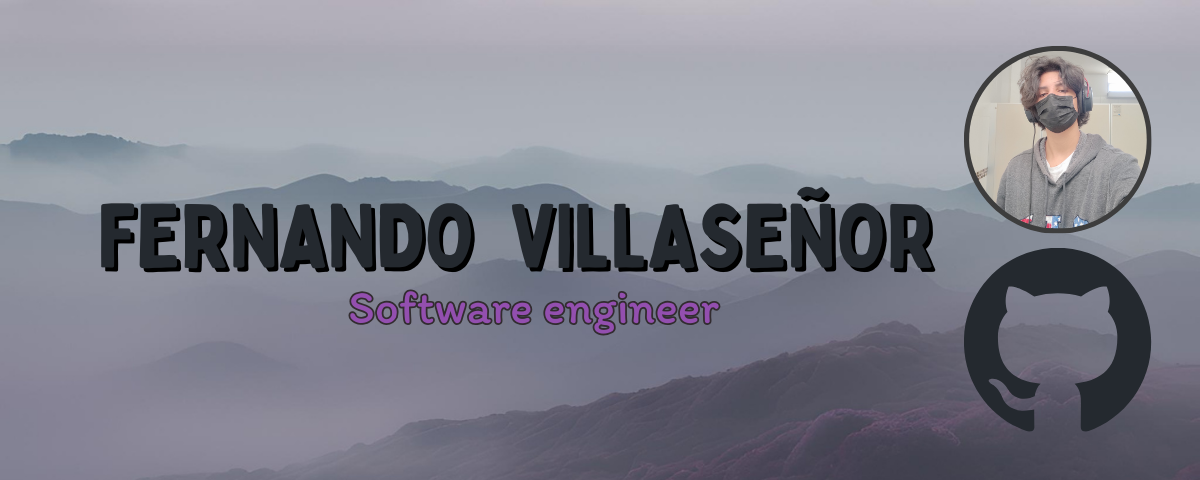
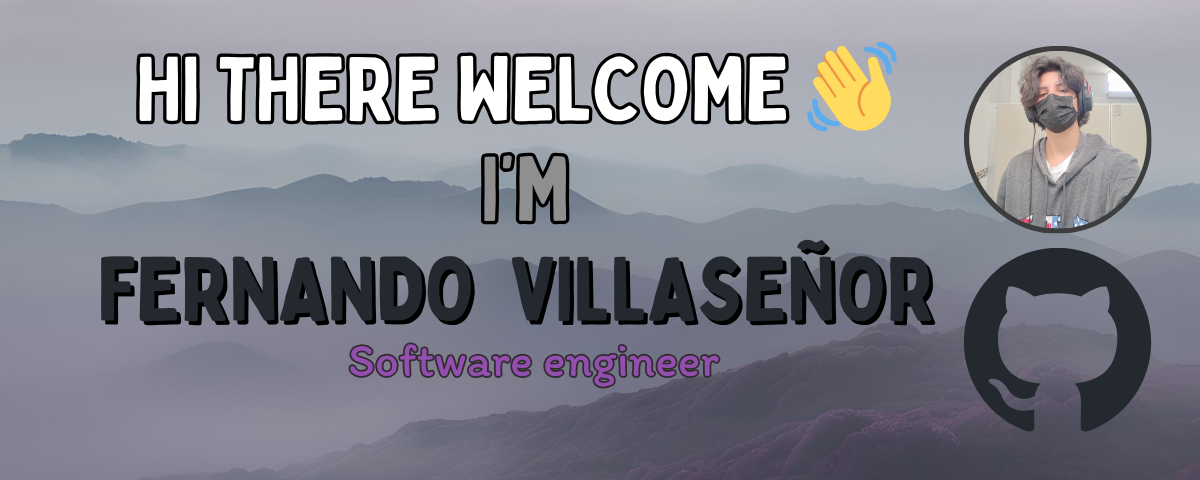
finalBanner_LT_connectWM

Changed region(s): [[0.0617, 0.3125, 0.8017, 0.8125], [0.0925, 0.0938, 0.7708, 0.2812]]

diff --git a/README.md b/README.md
@@ -1,4 +1,26 @@
-## Hi there 👋
+
+![Mi Banner de Github](GithubBanner.png)
+
+<div id="badges">
+<h3 align="left">Languages and Tools:</h3>
+<p align="left">
+<a href="https://developer.mozilla.org/en-US/docs/Web/JavaScript" target="_blank" rel="noreferrer"><img src="https://raw.githubusercontent.com/danielcranney/readme-generator/main/public/icons/skills/javascript-colored.svg" width="36" height="36" alt="JavaScript" /></a><a href="https://docs.microsoft.com/en-us/cpp/?view=msvc-170" target="_blank" rel="noreferrer"><img src="https://raw.githubusercontent.com/danielcranney/readme-generator/main/public/icons/skills/cplusplus-colored.svg" width="36" height="36" alt="C++" /></a><a href="https://code.visualstudio.com/" target="_blank" rel="noreferrer"><img src="https://raw.githubusercontent.com/danielcranney/readme-generator/main/public/icons/skills/visualstudiocode.svg" width="36" height="36" alt="VS Code" /></a><a href="https://developer.mozilla.org/en-US/docs/Glossary/HTML5" target="_blank" rel="noreferrer"><img src="https://raw.githubusercontent.com/danielcranney/readme-generator/main/public/icons/skills/html5-colored.svg" width="36" height="36" alt="HTML5" /></a><a href="https://www.w3.org/TR/CSS/#css" target="_blank" rel="noreferrer"><img src="https://raw.githubusercontent.com/danielcranney/readme-generator/main/public/icons/skills/css3-colored.svg" width="36" height="36" alt="CSS3" /></a><a href="https://getbootstrap.com/" target="_blank" rel="noreferrer"><img src="https://raw.githubusercontent.com/danielcranney/readme-generator/main/public/icons/skills/bootstrap-colored.svg" width="36" height="36" alt="Bootstrap" /></a><a href="https://nodejs.org/en/" target="_blank" rel="noreferrer"><img src="https://raw.githubusercontent.com/danielcranney/readme-generator/main/public/icons/skills/nodejs-colored.svg" width="36" height="36" alt="NodeJS" /></a><a href="https://expressjs.com/" target="_blank" rel="noreferrer"><img src="https://raw.githubusercontent.com/danielcranney/readme-generator/main/public/icons/skills/express-colored.svg" width="36" height="36" alt="Express" /></a><a href="https://store.arduino.cc/?gclid=Cj0KCQjw2eilBhCCARIsAG0Pf8uueBifykWcsSS4LPESeGQfxGVKJYnzV7bz471XfknQJy_1VINVWM8aAkLtEALw_wcB" target="_blank" rel="noreferrer"><img src="https://raw.githubusercontent.com/danielcranney/readme-generator/main/public/icons/skills/arduino-colored.svg" width="36" height="36" alt="Arduino" /></a><a href="https://www.docker.com/" target="_blank" rel="noreferrer"><img src="https://raw.githubusercontent.com/danielcranney/readme-generator/main/public/icons/skills/docker-colored.svg" width="36" height="36" alt="Docker" /></a>
+</p>
+
+</div>
+
+
+
+
+
+<div id="connectWithMe">
+<h3 align="left">Connect with me:</h3>
+<p align="left">
+<a href="https://linkedin.com/in/f3rnandovil" target="blank"><img align="center" src="https://raw.githubusercontent.com/rahuldkjain/github-profile-readme-generator/master/src/images/icons/Social/linked-in-alt.svg" alt="f3rnandovil" height="30" width="40" /></a>
+<a href="https://instagram.com/f3rnandovil" target="blank"><img align="center" src="https://raw.githubusercontent.com/rahuldkjain/github-profile-readme-generator/master/src/images/icons/Social/instagram.svg" alt="f3rnandovil" height="30" width="40" /></a>
+</p>
+</div>
+
 
 <!--
 **F3rnandoVil/f3rnandovil** is a ✨ _special_ ✨ repository because its `README.md` (this file) appears on your GitHub profile.
